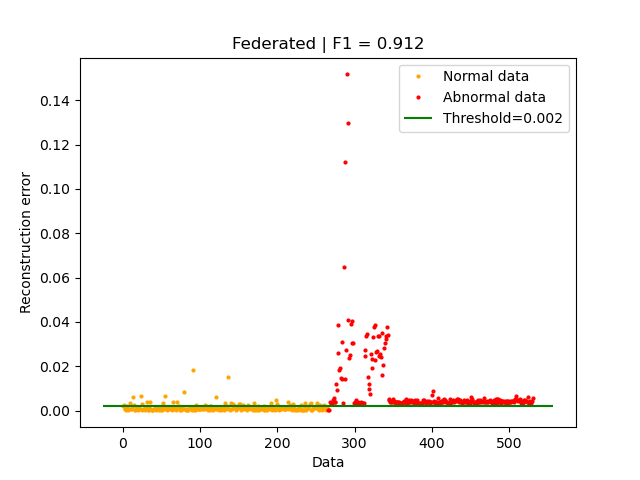
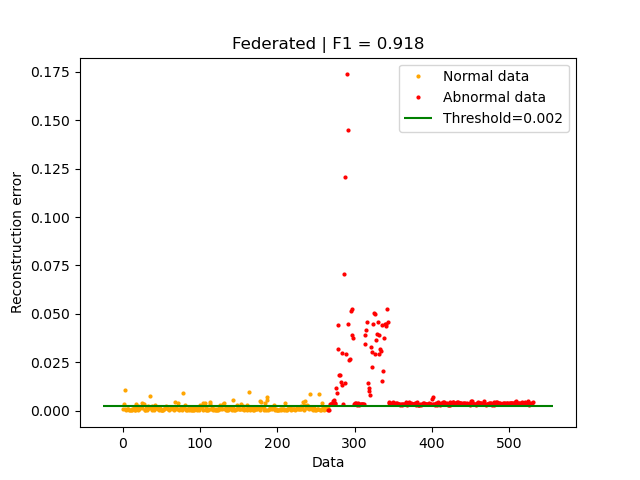
nits

diff --git a/AE/AutoencoderFed.py b/AE/AutoencoderFed.py
@@ -11,7 +11,7 @@ from AutoencoderUtils import AutoencoderUtils
 
 class AutoencoderFed():
 
-    def __init__(self, train_file, anomalous_file, log, epoch=50, num_clients=10, comm_round=5, percentile=0.85):
+    def __init__(self, train_file, anomalous_file, log, epoch=20, num_clients=10, comm_round=5, percentile=0.85):
         self.train_file = train_file
         self.anomalous_file = anomalous_file
         self.log = log
